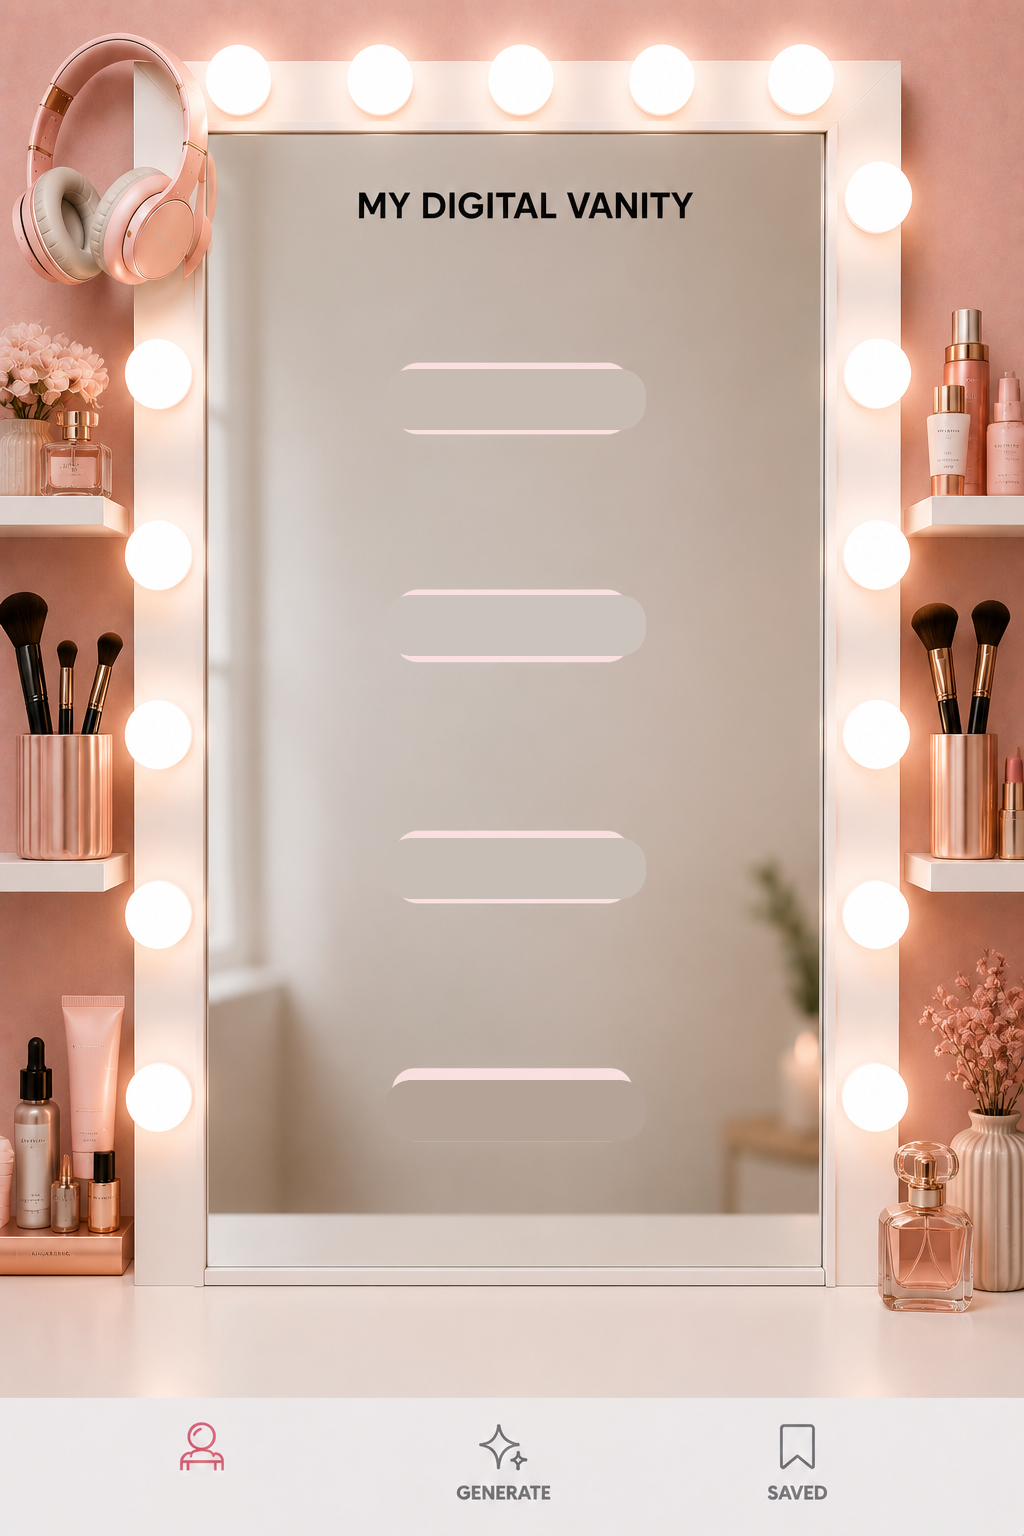
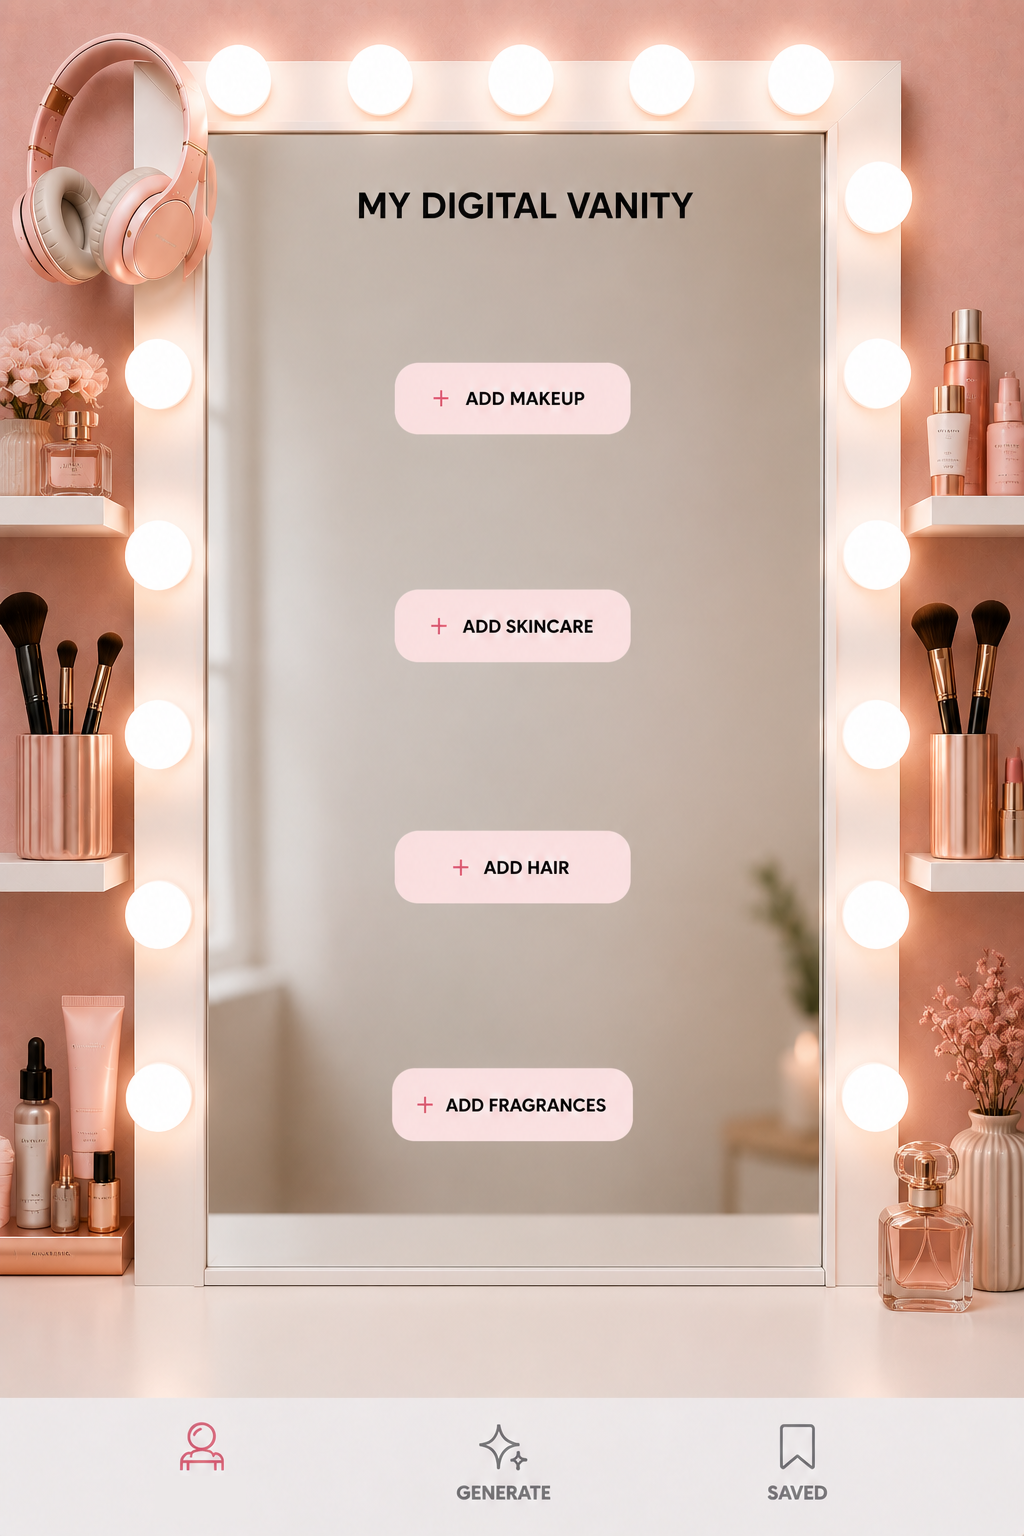
Update outfit generator UI and add reference images
Replit-Commit-Author: Agent

diff --git a/artifacts/outfit-generator/src/pages/generate.tsx b/artifacts/outfit-generator/src/pages/generate.tsx
@@ -248,7 +248,7 @@ export default function GeneratePage() {
     >
       {/* ── Background image ── */}
       <img
-        src="/vanity-bg.png?v=2"
+        src="/vanity-bg.png?v=3"
         alt="My Digital Vanity"
         style={{
           position: "absolute",

diff --git a/artifacts/outfit-generator/src/pages/wardrobe.tsx b/artifacts/outfit-generator/src/pages/wardrobe.tsx
@@ -198,7 +198,7 @@ export default function WardrobePage() {
     >
       {/* ── Background image ── */}
       <img
-        src="/vanity-bg.png?v=2"
+        src="/vanity-bg.png?v=3"
         alt="My Digital Vanity"
         style={{
           position: "absolute",